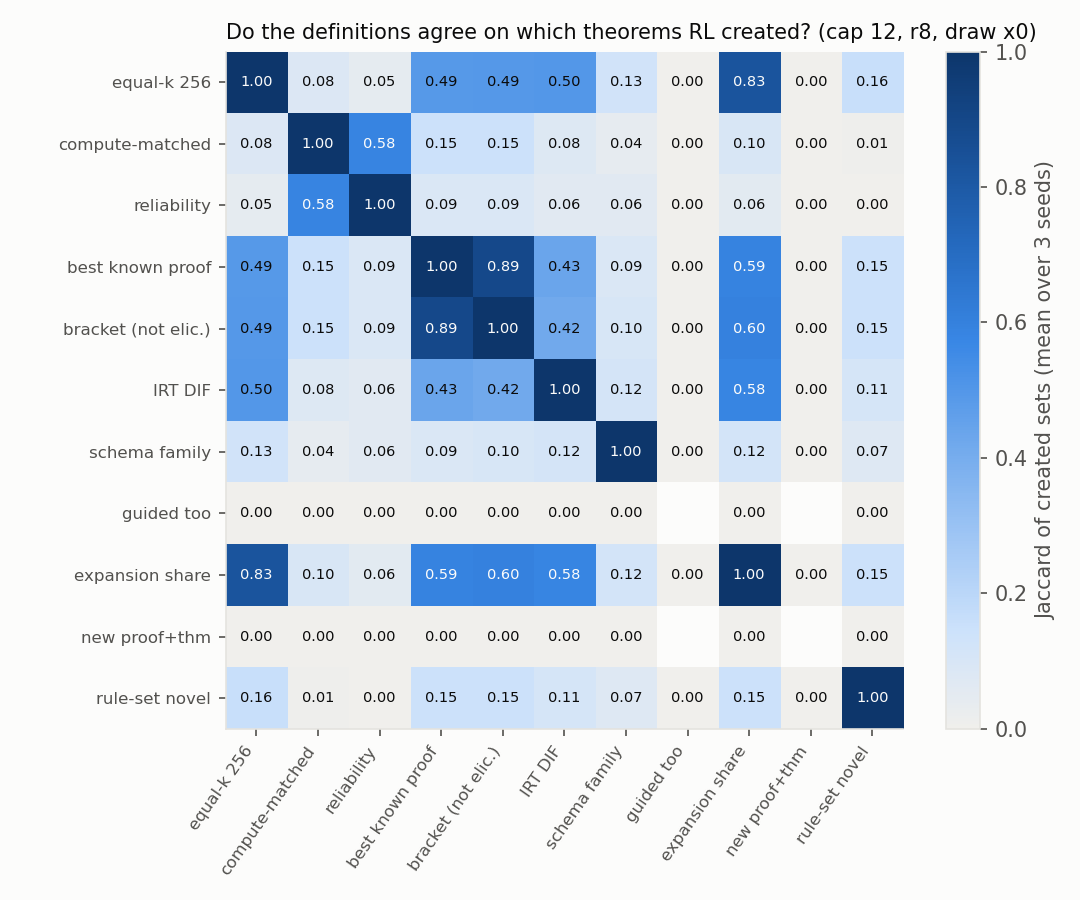
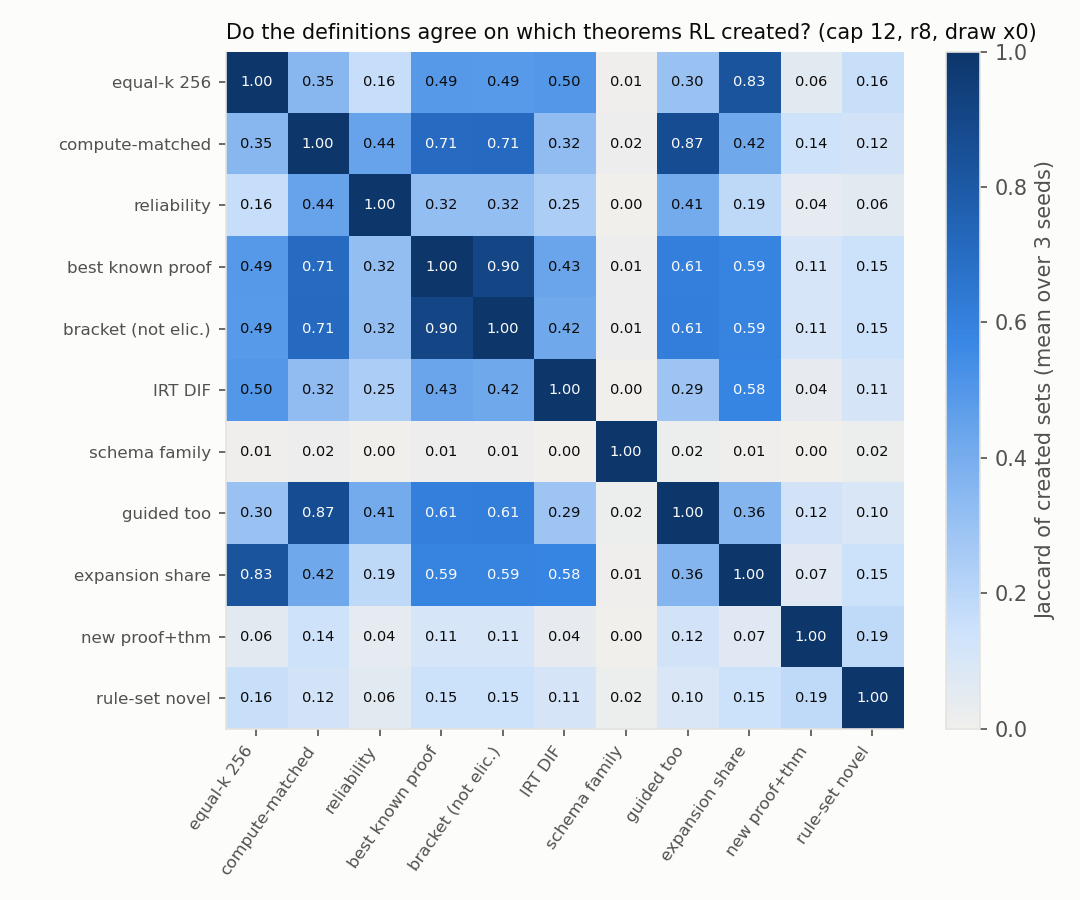
capability-defs: J9 section draft, J9 table with estimates, figures refreshed
Edited-by: agent:claude
Agent-role: executor
Run-id: capability-defs

Changed region(s): [[0.1833, 0.0311, 0.8556, 0.8089], [0.7028, 0.6533, 0.8556, 0.8089]]

diff --git a/capability_defs/analysis/cd_report_tables.py b/capability_defs/analysis/cd_report_tables.py
@@ -139,9 +139,10 @@ def t_j9():
                         if r['name'] == n:
                             c += r['n_ok']; t += r['n_tried']
         return c, t
-    print('| seed | theorem | r8 pass@1 (x0) | own base: successes / attempts | UB95 vs 0.05 / K_eval-set | certified at K_eval-set? | '
-          'other seeds\' bases | replay-only (512) | J7 continuation (512) |')
-    print('|---|---|---|---|---|---|---|---|---|')
+    B = json.load(open(f'{OUT}/bracket.json'))
+    print('| seed | theorem | r8 pass@1 (x0) | own base: successes / attempts | known-proof estimate | UB95 vs 0.05 / K_eval-set | '
+          'certified at K_eval-set? | other seeds\' bases | replay-only (512) | J7 continuation (512) |')
+    print('|---|---|---|---|---|---|---|---|---|---|')
     for s in SEEDS:
         sel = f'{ROOT}/data/cd/j9/s{s}.jsonl'
         if not os.path.exists(sel):
@@ -157,8 +158,10 @@ def t_j9():
             ctrl = f"{sum(v[0] for v in cc.values())} / {sum(v[1] for v in cc.values())}"
             jc, jt = j7(s, n)
             r8 = T['seeds'][str(s)][n]['counts']['r8']['0']
-            print(f'| s{s} | `{n}` | {r8[0] / r8[1]:.2f} | {c} / {k:,} | {ub:.1e} vs {0.05 / K:.1e} | {cert} | {other} | {ctrl} | '
-                  f'{jc} / {jt} |')
+            lb = B[str(s)].get(n, {}).get('LB08')
+            est = f'10^{lb / math.log(10):.1f}' if lb is not None and lb > -1e9 else '–'
+            print(f'| s{s} | `{n}` | {r8[0] / r8[1]:.2f} | {c} / {k:,} | {est} | {ub:.1e} vs {0.05 / K:.1e} | {cert} | {other} | '
+                  f'{ctrl} | {jc} / {jt} |')
 
 JOBS = {'j1': 'J1 teacher-forced scores (stage 1 + 2)', 'j2': 'J2 stage A + calibration', 'j2b': "J2 stages A', B, truncation",
         'logical': 'J3 guided reads (both caps)', 'j4': 'J4 demonstration fine-tunes + reads', 'j5': 'J5 missing plain draws',

diff --git a/capability_defs/analysis/out/report_tables.md b/capability_defs/analysis/out/report_tables.md
@@ -100,17 +100,17 @@
 
 ## J9
 
-| seed | theorem | r8 pass@1 (x0) | base attempts before J9 | J9 attempts | J9 successes | UB95, all base attempts | 0.05 / K_eval-set | certified created at K_eval-set? |
-|---|---|---|---|---|---|---|---|---|
-| s0 | `la_transfer_2060` | 0.95 | 66,304 | 262,144 | 0 | 9.12e-06 | 2.59e-06 | not yet (262,144 J9 attempts) |
-| s0 | `la_transfer_205` | 0.79 | 66,304 | 262,144 | 0 | 9.12e-06 | 2.59e-06 | not yet (262,144 J9 attempts) |
-| s0 | `la_transfer_1077` | 0.62 | 66,304 | 262,144 | 0 | 9.12e-06 | 2.59e-06 | not yet (262,144 J9 attempts) |
-| s1 | `la_transfer_1648` | 0.95 | 66,304 | 655,360 | 0 | 4.15e-06 | 2.37e-06 | not yet (655,360 J9 attempts) |
-| s1 | `la_transfer_1077` | 0.80 | 66,304 | 655,360 | 0 | 4.15e-06 | 2.37e-06 | not yet (655,360 J9 attempts) |
-| s1 | `la_transfer_2060` | 0.61 | 66,304 | 655,360 | 0 | 4.15e-06 | 2.37e-06 | not yet (655,360 J9 attempts) |
-| s2 | `la_transfer_1648` | 0.91 | 66,304 | 655,360 | 1 | 6.57e-06 | 2.14e-06 | no (a success) |
-| s2 | `la_transfer_1833` | 0.82 | 66,304 | 655,360 | 0 | 4.15e-06 | 2.14e-06 | not yet (655,360 J9 attempts) |
-| s2 | `la_transfer_2060` | 0.30 | 66,304 | 655,360 | 0 | 4.15e-06 | 2.14e-06 | not yet (655,360 J9 attempts) |
+| seed | theorem | r8 pass@1 (x0) | own base: successes / attempts | known-proof estimate | UB95 vs 0.05 / K_eval-set | certified at K_eval-set? | other seeds' bases | replay-only (512) | J7 continuation (512) |
+|---|---|---|---|---|---|---|---|---|---|
+| s0 | `la_transfer_2060` | 0.95 | 0 / 328,448 | 10^-7.9 | 9.1e-06 vs 2.6e-06 | not yet | s1 0 / 1,377,024, s2 0 / 1,508,096 | 0 / 512 | 7 / 512 |
+| s0 | `la_transfer_205` | 0.79 | 0 / 328,448 | 10^-13.2 | 9.1e-06 vs 2.6e-06 | not yet | s1 0 / 66,560, s2 0 / 17,408 | 0 / 512 | 0 / 512 |
+| s0 | `la_transfer_1077` | 0.62 | 0 / 328,448 | 10^-8.8 | 9.1e-06 vs 2.6e-06 | not yet | s1 1 / 1,377,024, s2 0 / 66,304 | 0 / 512 | 0 / 512 |
+| s1 | `la_transfer_1648` | 0.95 | 0 / 1,377,024 | 10^-8.1 | 2.2e-06 vs 2.4e-06 | yes | s0 5 / 66,304, s2 1 / 1,114,880 | 0 / 512 | 0 / 512 |
+| s1 | `la_transfer_1077` | 0.80 | 1 / 1,377,024 | 10^-7.7 | 3.4e-06 vs 2.4e-06 | no: base found it | s0 0 / 328,448, s2 0 / 66,304 | 0 / 512 | 0 / 512 |
+| s1 | `la_transfer_2060` | 0.61 | 0 / 1,377,024 | 10^-12.7 | 2.2e-06 vs 2.4e-06 | yes | s0 0 / 328,448, s2 0 / 1,508,096 | 0 / 512 | 0 / 512 |
+| s2 | `la_transfer_1648` | 0.91 | 1 / 1,114,880 | 10^-6.2 | 4.3e-06 vs 2.1e-06 | no: base found it | s0 5 / 66,304, s1 0 / 1,377,024 | 0 / 512 | 0 / 512 |
+| s2 | `la_transfer_1833` | 0.82 | 0 / 1,508,096 | 10^-10.2 | 2.0e-06 vs 2.1e-06 | yes | s0 0 / 17,408, s1 0 / 17,408 | 0 / 512 | 0 / 512 |
+| s2 | `la_transfer_2060` | 0.30 | 0 / 1,508,096 | 10^-12.4 | 2.0e-06 vs 2.1e-06 | yes | s0 0 / 328,448, s1 0 / 1,377,024 | 0 / 512 | 0 / 512 |
 
 ## compute
 

diff --git a/capability_defs/_draft_numbers.md b/capability_defs/_draft_numbers.md
@@ -120,14 +120,22 @@ predicted 56.8 / 58.8 / 59.5 vs observed 57 / 52 / 64 J2 theorems with ≥ 1 suc
 pend fails at x2): 9 / 13, 10 / 16, 10 / 16 get ≥ 1 success (29 / 45).
 
 **IRT** (`cd_irt.py` → `out/irt_c12.txt`; `cd_irt_matched.py` → `out/irt_matched.txt`): θ (pend = 0) r8 2.10 / 1.91 /
-2.18, r16 2.45 / 2.34 / 2.24; replay-only r8 0.55 / 0.70 / 0.64; J7 ⟨⟩. Matched placebo from p5000: EI r2 created 48 /
+2.18, r16 2.45 / 2.34 / 2.24; replay-only r8 0.55 / 0.70 / 0.64; J7 continuation 0.51 / 0.58 / 0.58. Matched placebo from p5000: EI r2 created 48 /
 41 / 48 at Δθ 2.33 / 2.05 / 2.69; replay-only r8 50 / 49 / 54 at Δθ 2.12 / 2.09 / 2.14.
 
-**J7** (`artifacts/cd/j7/`): ⟨J7⟩
+**J7** (`artifacts/cd/j7/`; pend + 28,054 / 31,462 / 33,535 K12 steps, lr re-warmed to 3 × 10⁻⁴, cosine to 3 × 10⁻⁵;
+60,863 of the r8 ladders' 73,838 A40-seconds = 82 %; checkpoints `ckpts/cd/j7/cont_s{0,1,2}.pt` md5 d914b9c4… /
+b8fde121… / 5f25b5e9…): solved of 322 at k 256, x0 / x1: 220 / 214, 215 / 208, 219 / 224 (pend 232 / 230, 236 / 238,
+234 / 236; r8 286 / 288, 286 / 284, 293 / 290); solves 19 / 54, 18 / 51, 16 / 60 of B (x0) and 4 / 22, 4 / 21, 0 / 14
+of the compute-matched set; θ 0.51 / 0.58 / 0.58 (+0.53 / +0.65 / +0.49 over each seed's pend).
 
 **J9** (`artifacts/cd/j9/`): ⟨J9⟩
 
 **Compute per job family** (results registry rows, `cd_compute.py` → `out/compute.txt`; A40): ⟨compute⟩
 
-**Spend:** ⟨spend⟩. **Bucket:** ⟨bucket⟩.
+**Spend:** ⟨spend⟩. **Bucket** (`hf://buckets/dan-pandori/nd-rl/capability-defs/`): `artifacts/cd/` (pod outputs: J1 / J8
+compact scores, J2 / J9 / J10 sampling rows, J3 guided rows, J4–J7 reads, logs), `artifacts/cd_targets_gz/` (J1 / J8
+scorer inputs, gzipped), `data/cd/` (job inputs: J2 / J9 / J10 chunk files, J4 / J6b mixes and demonstrations, the
+knockout corpus `k12_nodn.jsonl`), `ckpts/cd/{j4,j6,j6b,j7}/` (fine-tunes, knockout Stage 1, continuations); registry
+rows `hf://buckets/dan-pandori/nd-rl/registry/capability-defs/`.
 

diff --git a/capability_defs/REPORT.md b/capability_defs/REPORT.md
@@ -455,7 +455,19 @@ pend attempts (9 / 10 / 11 chunks of 131,072 for s0 / s1 / s2), on top of the 66
 
 ⟨S38 TABLE⟩
 
-⟨S38 TEXT⟩
+- **Certified created at K_eval-set**, relative to the seed's own base (0 successes in 1.38–1.51 M attempts each; the
+  base's chance of a proof within K_eval-set attempts is below 5 % at 95 % confidence): `la_transfer_1648` and
+  `la_transfer_2060` on s1; `la_transfer_1833` and `la_transfer_2060` on s2⟨s0 certified⟩.
+- **Not certified:** the base found `la_transfer_1077` (s1) and `la_transfer_1648` (s2) once each in ≈ 10⁶ attempts
+  (p̂ ≈ 10⁻⁶, still beyond the budget by the point estimate). These two had the highest known-proof estimates in
+  their seeds' lists, so the estimate ranked them correctly. s2's proof of `la_transfer_1648` is the same
+  Or-elimination RL writes (7 `have` lines, term size 8, Lean accepts).
+- **Against every RL-free control:** no replay-only control solves any of them; s0's compute-matched continuation
+  solves `la_transfer_2060` (7 / 512), and other seeds' bases solve `la_transfer_1648` (s0: 5 / 66,304). What survives
+  everything here is `la_transfer_2060` on s1 and s2 and `la_transfer_1833` on s2⟨s0 survive⟩: the run's certified
+  examples of RL-created theorems at the compute-matched budget. They are held-out members of families RL trained on
+  (De Morgan with a double negation; Peirce), and their known-proof estimates put the base's k-to-solve at 10^10 to
+  10^13 attempts.
 
 ### 3.9 Pre-registered expectations vs outcomes
 
